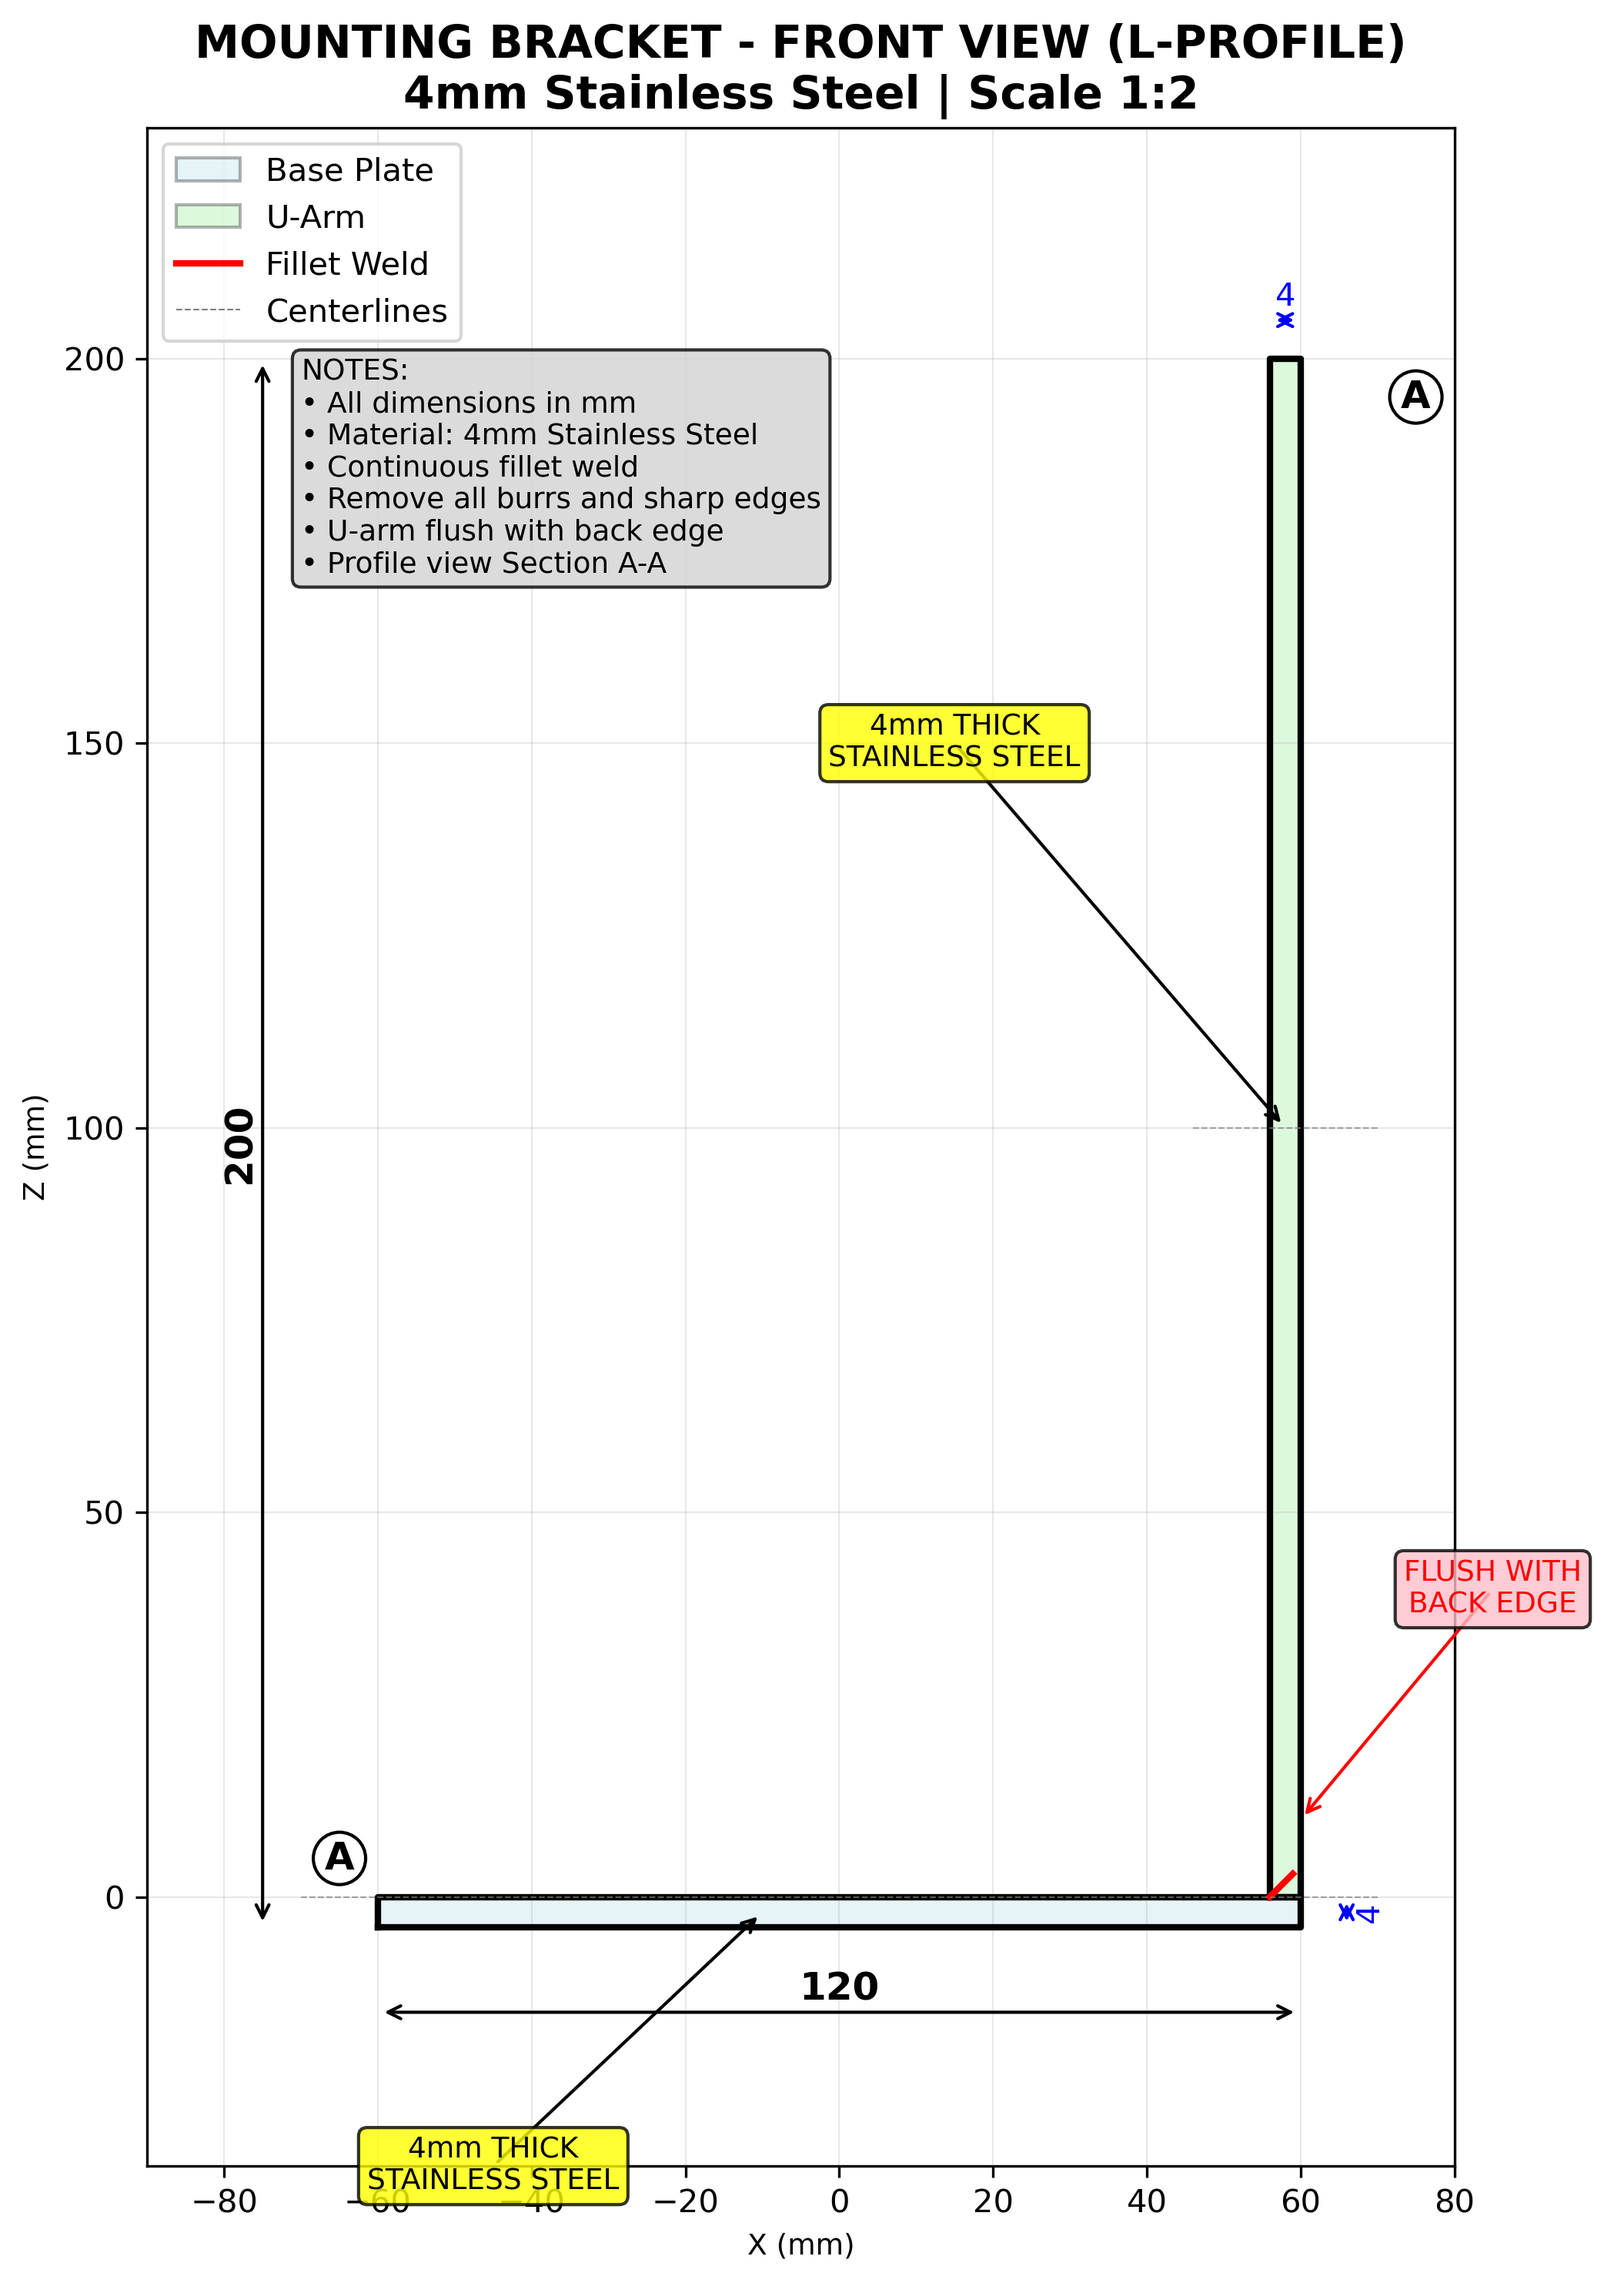
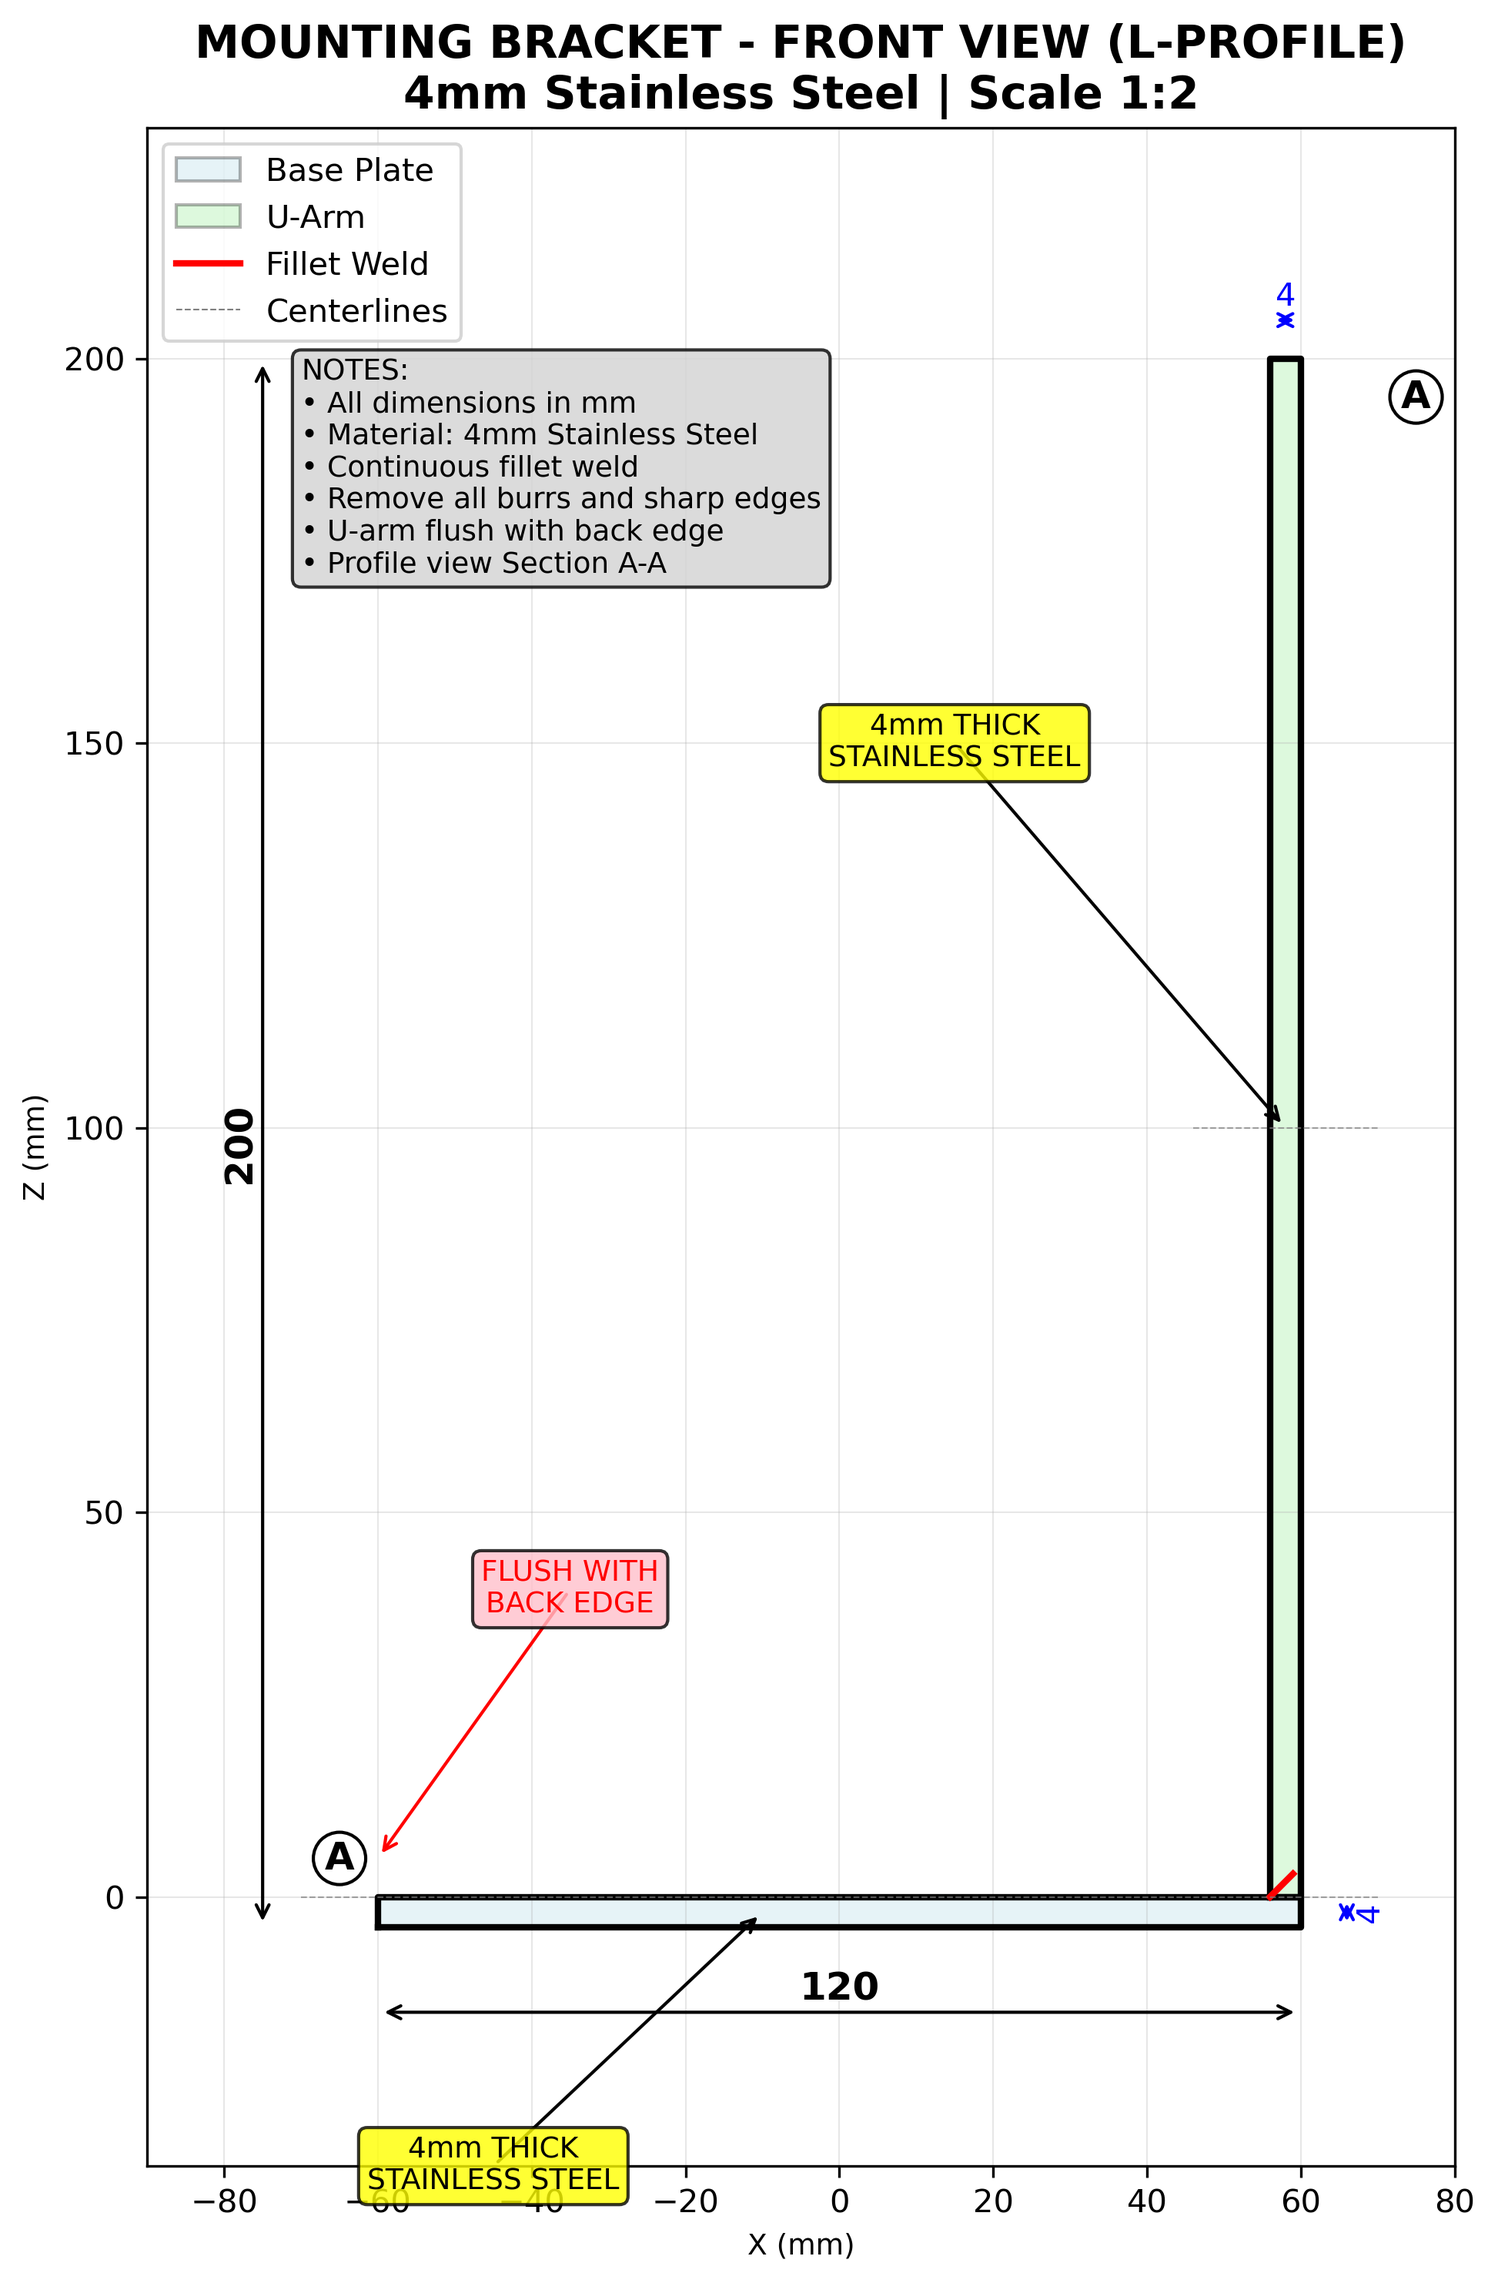
Reposition 'FLUSH WITH BACK EDGE' annotation to left side
ASSEMBLY DETAIL REPOSITIONING:
- Moved feature point from BASE_PLATE_RIGHT to BASE_PLATE_LEFT
- Adjusted arrow point from Y=10 to Y=5 for refined targeting
- Repositioned leader line endpoint to BASE_PLATE_LEFT + 25 offset
- Maintained consistent text positioning at Y=40 height

TECHNICAL CHANGES:
- Feature point: (BASE_PLATE_RIGHT, 10) → (BASE_PLATE_LEFT, 5)
- Leader endpoint: (BASE_PLATE_RIGHT + 25, 40) → (BASE_PLATE_LEFT + 25, 40)
- Annotation now points to left side of U-arm/base plate junction
- Maintained red color scheme for manufacturing details

RESULT: Assembly detail annotation relocated for improved layout balance

diff --git a/src/drawing_engine.py b/src/drawing_engine.py
@@ -338,8 +338,8 @@ class DrawingEngine:
                                       '4mm THICK\nSTAINLESS STEEL', (15, mb_specs.U_ARM_OVERALL_HEIGHT/2 + 50), 'yellow')
         
         # === ASSEMBLY DETAIL ===
-        self.utils.add_manufacturing_detail(ax, (mb_specs.BASE_PLATE_RIGHT, 10), 
-                                          'FLUSH WITH\nBACK EDGE', (mb_specs.BASE_PLATE_RIGHT + 25, 40), 'red')
+        self.utils.add_manufacturing_detail(ax, (mb_specs.BASE_PLATE_LEFT, 5), 
+                                          'FLUSH WITH\nBACK EDGE', (mb_specs.BASE_PLATE_LEFT + 25, 40), 'red')
         
         # === PROFESSIONAL LEGEND ===
         legend_items = [
